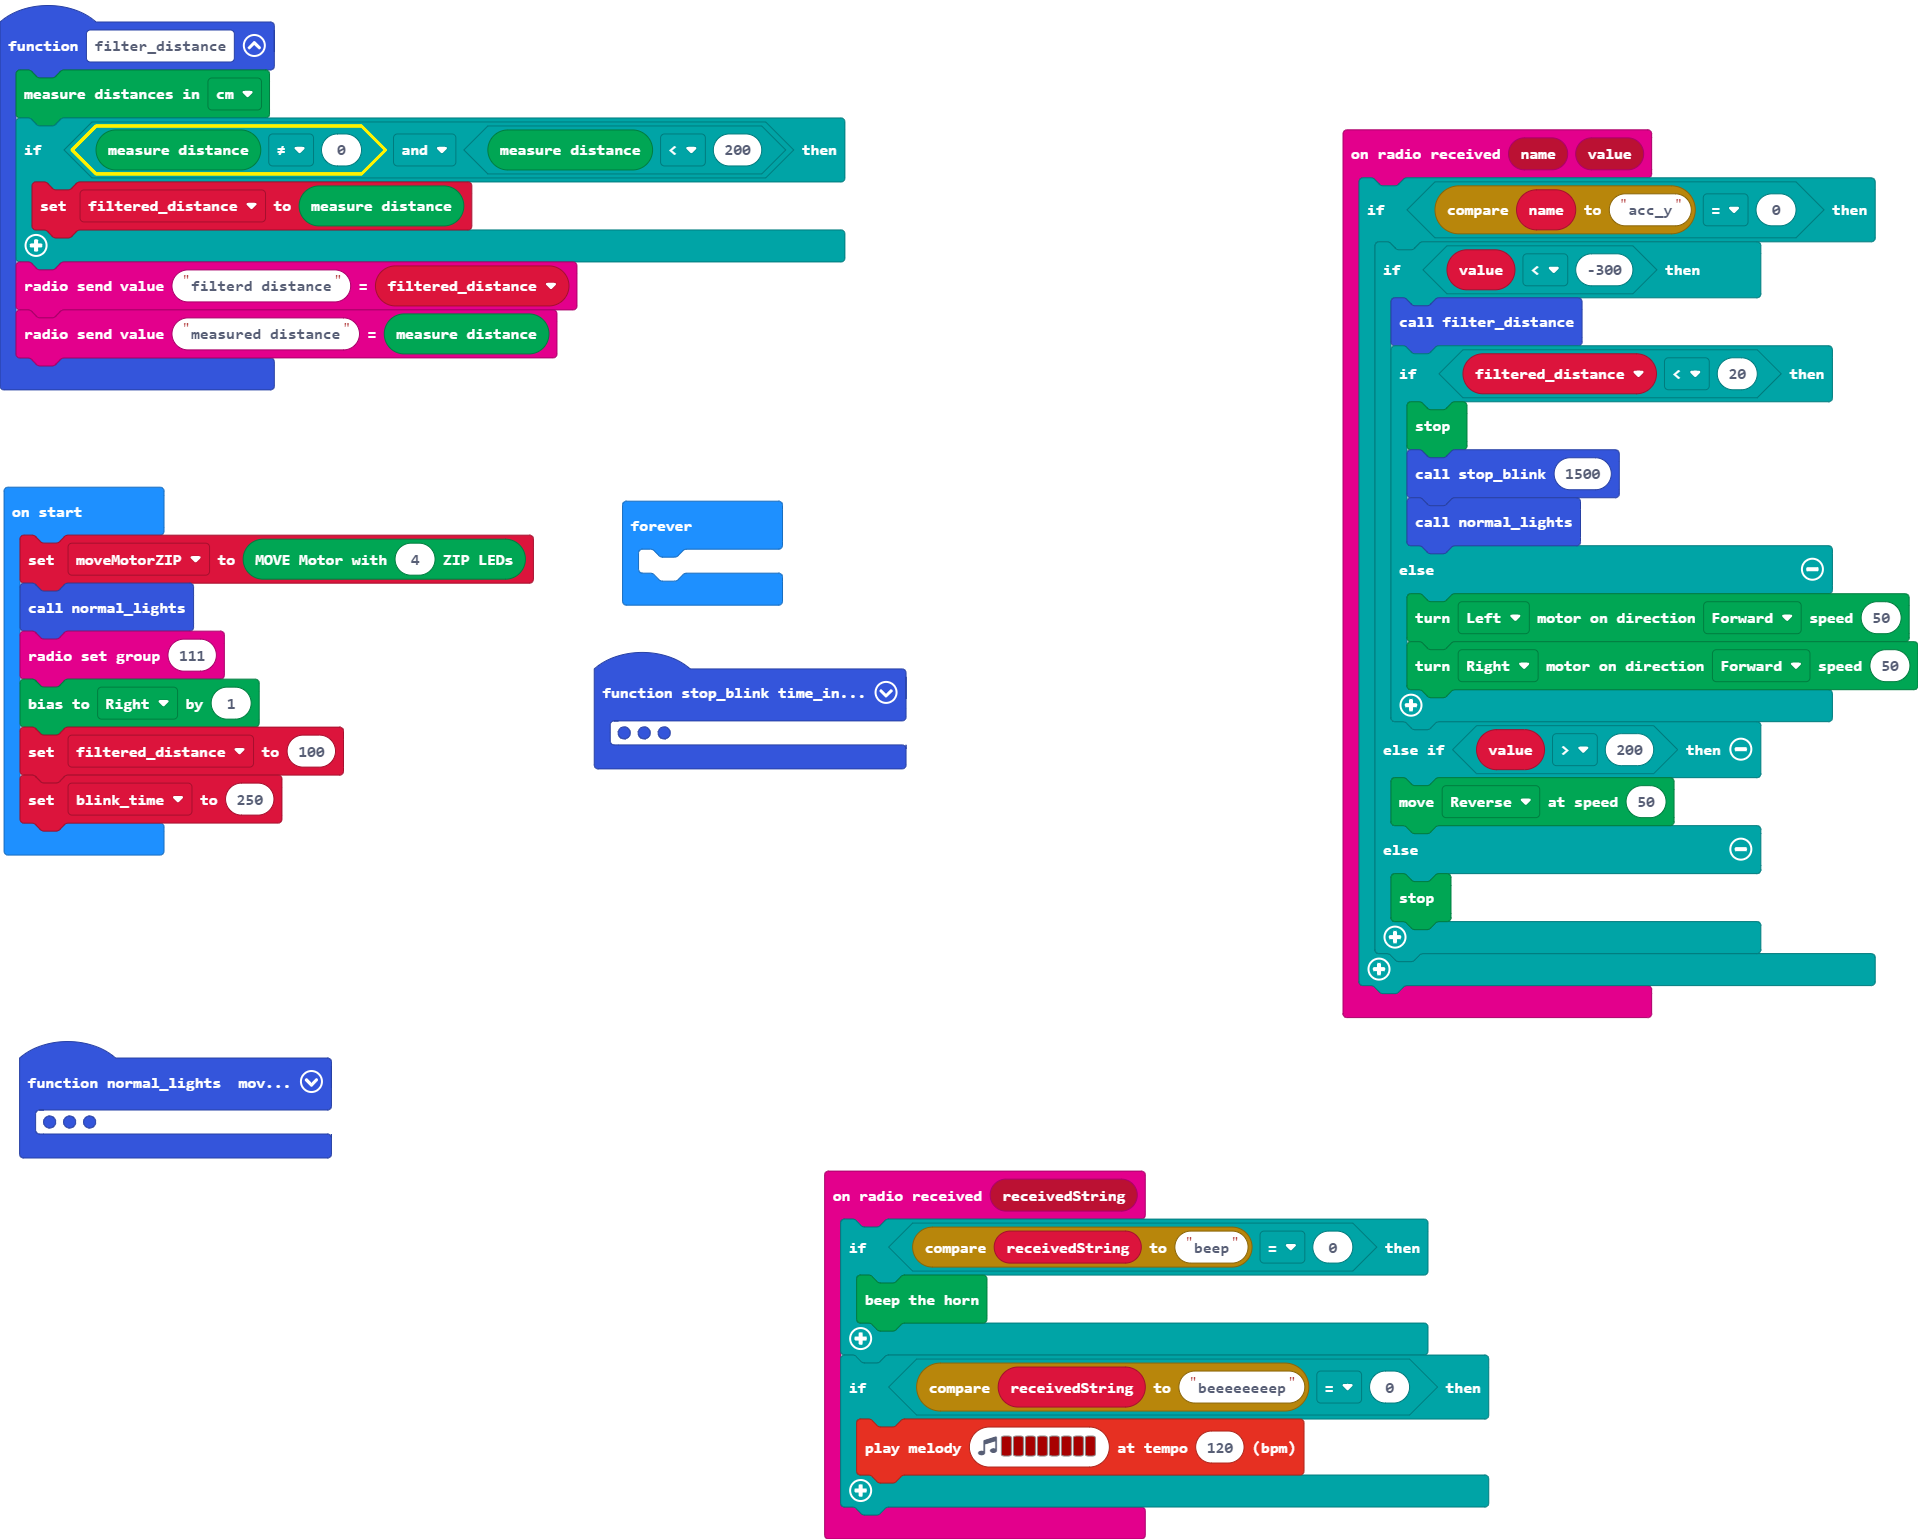
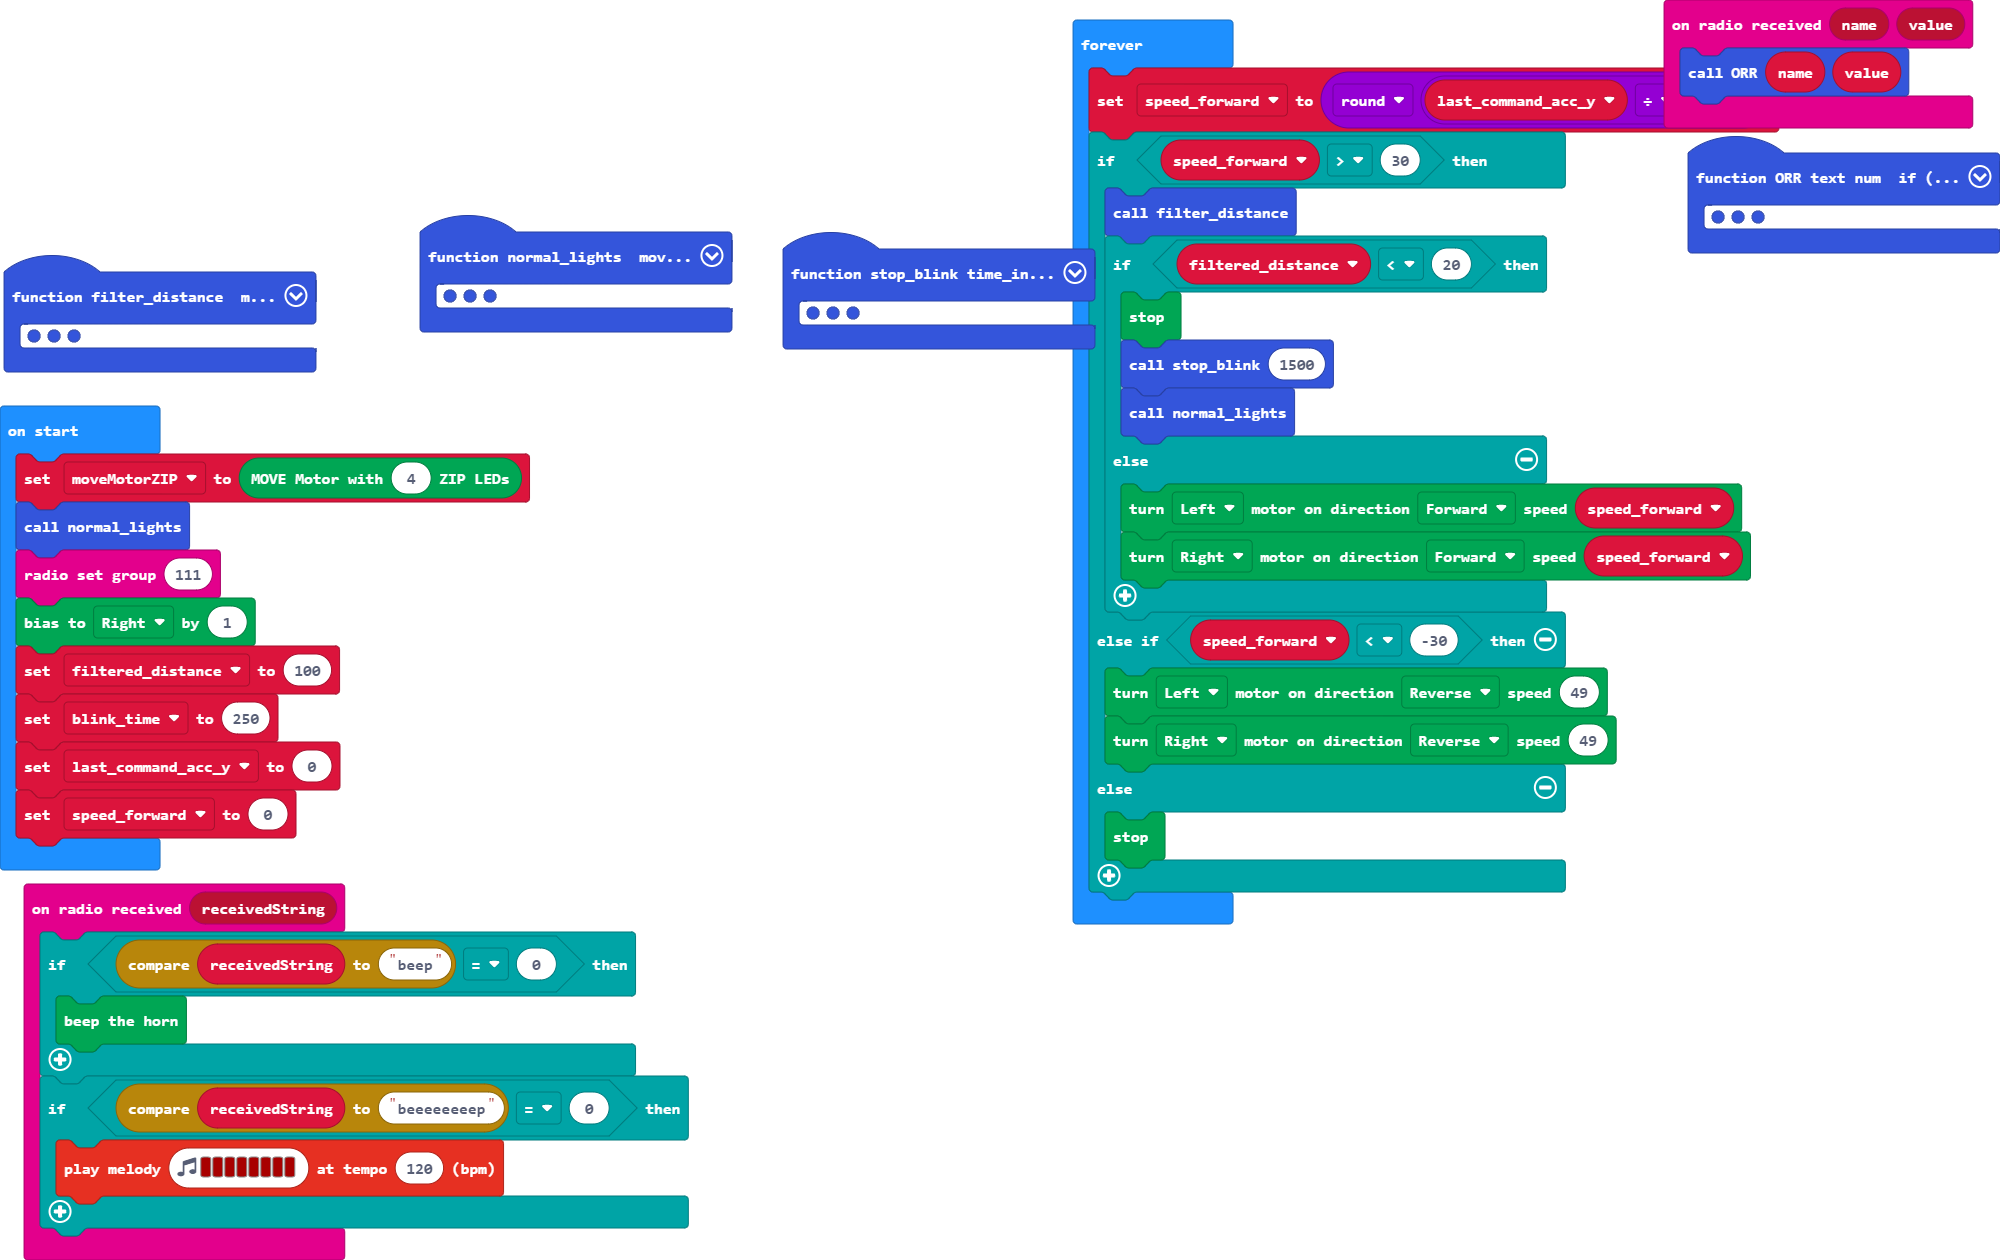
👈👉

diff --git a/main.ts b/main.ts
@@ -20,6 +20,14 @@ function stop_blink (time_in_ms: number) {
         moveMotorZIP.show()
     }
 }
+function ORR (text: string, num: number) {
+    if (text.compare("acc_y") == 0) {
+        last_command_acc_y = num
+    }
+    if (text.compare("acc_x") == 0) {
+        last_command_acc_x = num
+    }
+}
 radio.onReceivedString(function (receivedString) {
     if (receivedString.compare("beep") == 0) {
         Kitronik_Move_Motor.beepHorn()
@@ -29,23 +37,7 @@ radio.onReceivedString(function (receivedString) {
     }
 })
 radio.onReceivedValue(function (name, value) {
-    if (name.compare("acc_y") == 0) {
-        if (value < -300) {
-            filter_distance()
-            if (filtered_distance < 20) {
-                Kitronik_Move_Motor.stop()
-                stop_blink(1500)
-                normal_lights()
-            } else {
-                Kitronik_Move_Motor.motorOn(Kitronik_Move_Motor.Motors.MotorLeft, Kitronik_Move_Motor.MotorDirection.Forward, 50)
-                Kitronik_Move_Motor.motorOn(Kitronik_Move_Motor.Motors.MotorRight, Kitronik_Move_Motor.MotorDirection.Forward, 50)
-            }
-        } else if (value > 200) {
-            Kitronik_Move_Motor.move(Kitronik_Move_Motor.DriveDirections.Reverse, 50)
-        } else {
-            Kitronik_Move_Motor.stop()
-        }
-    }
+    ORR(name, value)
 })
 function filter_distance () {
     Kitronik_Move_Motor.setUltrasonicUnits(Kitronik_Move_Motor.Units.Centimeters)
@@ -55,6 +47,8 @@ function filter_distance () {
     radio.sendValue("filterd distance", filtered_distance)
     radio.sendValue("measured distance", Kitronik_Move_Motor.measure())
 }
+let last_command_acc_x = 0
+let last_command_acc_y = 0
 let blink_time = 0
 let filtered_distance = 0
 let moveMotorZIP: Kitronik_Move_Motor.MoveMotorZIP = null
@@ -64,6 +58,24 @@ radio.setGroup(111)
 Kitronik_Move_Motor.motorBalance(Kitronik_Move_Motor.SpinDirections.Right, 1)
 filtered_distance = 100
 blink_time = 250
+last_command_acc_y = 0
+let speed_forward = 0
 basic.forever(function () {
-	
+    speed_forward = Math.round(last_command_acc_y / -10.23)
+    if (speed_forward > 30) {
+        filter_distance()
+        if (filtered_distance < 20) {
+            Kitronik_Move_Motor.stop()
+            stop_blink(1500)
+            normal_lights()
+        } else {
+            Kitronik_Move_Motor.motorOn(Kitronik_Move_Motor.Motors.MotorLeft, Kitronik_Move_Motor.MotorDirection.Forward, speed_forward)
+            Kitronik_Move_Motor.motorOn(Kitronik_Move_Motor.Motors.MotorRight, Kitronik_Move_Motor.MotorDirection.Forward, speed_forward)
+        }
+    } else if (speed_forward < -30) {
+        Kitronik_Move_Motor.motorOn(Kitronik_Move_Motor.Motors.MotorLeft, Kitronik_Move_Motor.MotorDirection.Reverse, 49)
+        Kitronik_Move_Motor.motorOn(Kitronik_Move_Motor.Motors.MotorRight, Kitronik_Move_Motor.MotorDirection.Reverse, 49)
+    } else {
+        Kitronik_Move_Motor.stop()
+    }
 })

diff --git a/main.py b/main.py
@@ -1,69 +1,81 @@
-def normal_lights():
-    global moveMotorZIP
+function normal_lights () {
     moveMotorZIP.clear()
-    moveMotorZIP = Kitronik_Move_Motor.create_move_motor_zipled(4)
-    moveMotorZIP.set_zip_led_color(0,
-        Kitronik_Move_Motor.colors(Kitronik_Move_Motor.ZipLedColors.WHITE))
-    moveMotorZIP.set_zip_led_color(1,
-        Kitronik_Move_Motor.colors(Kitronik_Move_Motor.ZipLedColors.WHITE))
-    moveMotorZIP.set_zip_led_color(2,
-        Kitronik_Move_Motor.colors(Kitronik_Move_Motor.ZipLedColors.ORANGE))
-    moveMotorZIP.set_zip_led_color(3,
-        Kitronik_Move_Motor.colors(Kitronik_Move_Motor.ZipLedColors.ORANGE))
+    moveMotorZIP = Kitronik_Move_Motor.createMoveMotorZIPLED(4)
+    moveMotorZIP.setZipLedColor(0, Kitronik_Move_Motor.colors(Kitronik_Move_Motor.ZipLedColors.White))
+    moveMotorZIP.setZipLedColor(1, Kitronik_Move_Motor.colors(Kitronik_Move_Motor.ZipLedColors.White))
+    moveMotorZIP.setZipLedColor(2, Kitronik_Move_Motor.colors(Kitronik_Move_Motor.ZipLedColors.Orange))
+    moveMotorZIP.setZipLedColor(3, Kitronik_Move_Motor.colors(Kitronik_Move_Motor.ZipLedColors.Orange))
     moveMotorZIP.show()
-def stop_blink(time_in_ms: number):
+}
+function stop_blink (time_in_ms: number) {
     moveMotorZIP.clear()
-    moveMotorZIP.set_zip_led_color(0,
-        Kitronik_Move_Motor.colors(Kitronik_Move_Motor.ZipLedColors.WHITE))
-    moveMotorZIP.set_zip_led_color(1,
-        Kitronik_Move_Motor.colors(Kitronik_Move_Motor.ZipLedColors.WHITE))
-    moveMotorZIP.set_zip_led_color(2,
-        Kitronik_Move_Motor.colors(Kitronik_Move_Motor.ZipLedColors.RED))
-    moveMotorZIP.set_zip_led_color(3,
-        Kitronik_Move_Motor.colors(Kitronik_Move_Motor.ZipLedColors.RED))
-    for index in range(time_in_ms / blink_time):
+    moveMotorZIP.setZipLedColor(0, Kitronik_Move_Motor.colors(Kitronik_Move_Motor.ZipLedColors.White))
+    moveMotorZIP.setZipLedColor(1, Kitronik_Move_Motor.colors(Kitronik_Move_Motor.ZipLedColors.White))
+    moveMotorZIP.setZipLedColor(2, Kitronik_Move_Motor.colors(Kitronik_Move_Motor.ZipLedColors.Red))
+    moveMotorZIP.setZipLedColor(3, Kitronik_Move_Motor.colors(Kitronik_Move_Motor.ZipLedColors.Red))
+    for (let index = 0; index < time_in_ms / blink_time; index++) {
         moveMotorZIP.rotate(2)
-        moveMotorZIP.show()
+        music.playTone(659, music.beat(BeatFraction.Whole))
         basic.pause(blink_time)
-
-def on_received_value(name, value):
-    if name.compare("acc_y") == 0:
-        if value < -300:
-            filter_distance()
-            if filtered_distance < 20:
-                Kitronik_Move_Motor.stop()
-                music.play_melody("C5 - C5 - C5 - C5 - ", 150)
-                stop_blink(1500)
-                normal_lights()
-            else:
-                Kitronik_Move_Motor.motor_on(Kitronik_Move_Motor.Motors.MOTOR_LEFT,
-                    Kitronik_Move_Motor.MotorDirection.FORWARD,
-                    50)
-                Kitronik_Move_Motor.motor_on(Kitronik_Move_Motor.Motors.MOTOR_RIGHT,
-                    Kitronik_Move_Motor.MotorDirection.FORWARD,
-                    50)
-        elif value > 200:
-            Kitronik_Move_Motor.move(Kitronik_Move_Motor.DriveDirections.REVERSE, 50)
-        else:
-            Kitronik_Move_Motor.stop()
-radio.on_received_value(on_received_value)
-
-def filter_distance():
-    global filtered_distance
-    Kitronik_Move_Motor.set_ultrasonic_units(Kitronik_Move_Motor.Units.CENTIMETERS)
-    if Kitronik_Move_Motor.measure() != 0 and Kitronik_Move_Motor.measure() != 1019:
+        moveMotorZIP.show()
+    }
+}
+function ORR (text: string, num: number) {
+    if (text.compare("acc_y") == 0) {
+        last_command_acc_y = num
+    }
+    if (text.compare("acc_x") == 0) {
+        last_command_acc_x = num
+    }
+}
+radio.onReceivedString(function (receivedString) {
+    if (receivedString.compare("beep") == 0) {
+        Kitronik_Move_Motor.beepHorn()
+    }
+    if (receivedString.compare("beeeeeeeep") == 0) {
+        music.playMelody("C5 C5 C5 C5 C5 C5 C5 C5 ", 120)
+    }
+})
+radio.onReceivedValue(function (name, value) {
+    ORR(name, value)
+})
+function filter_distance () {
+    Kitronik_Move_Motor.setUltrasonicUnits(Kitronik_Move_Motor.Units.Centimeters)
+    if (Kitronik_Move_Motor.measure() != 0 && Kitronik_Move_Motor.measure() < 200) {
         filtered_distance = Kitronik_Move_Motor.measure()
-    radio.send_value("distance", filtered_distance)
-blink_time = 0
-filtered_distance = 0
-moveMotorZIP: Kitronik_Move_Motor.MoveMotorZIP = None
-moveMotorZIP = Kitronik_Move_Motor.create_move_motor_zipled(4)
+    }
+    radio.sendValue("filterd distance", filtered_distance)
+    radio.sendValue("measured distance", Kitronik_Move_Motor.measure())
+}
+let last_command_acc_x = 0
+let last_command_acc_y = 0
+let blink_time = 0
+let filtered_distance = 0
+let moveMotorZIP: Kitronik_Move_Motor.MoveMotorZIP = null
+moveMotorZIP = Kitronik_Move_Motor.createMoveMotorZIPLED(4)
 normal_lights()
-radio.set_group(111)
-Kitronik_Move_Motor.motor_balance(Kitronik_Move_Motor.SpinDirections.RIGHT, 1)
+radio.setGroup(111)
+Kitronik_Move_Motor.motorBalance(Kitronik_Move_Motor.SpinDirections.Right, 1)
 filtered_distance = 100
 blink_time = 250
-
-def on_forever():
-    pass
-basic.forever(on_forever)
+last_command_acc_y = 0
+let speed_forward = 0
+basic.forever(function () {
+    speed_forward = Math.round(last_command_acc_y / -10.23)
+    if (speed_forward > 30) {
+        filter_distance()
+        if (filtered_distance < 20) {
+            Kitronik_Move_Motor.stop()
+            stop_blink(1500)
+            normal_lights()
+        } else {
+            Kitronik_Move_Motor.motorOn(Kitronik_Move_Motor.Motors.MotorLeft, Kitronik_Move_Motor.MotorDirection.Forward, speed_forward)
+            Kitronik_Move_Motor.motorOn(Kitronik_Move_Motor.Motors.MotorRight, Kitronik_Move_Motor.MotorDirection.Forward, speed_forward)
+        }
+    } else if (speed_forward < -30) {
+        Kitronik_Move_Motor.motorOn(Kitronik_Move_Motor.Motors.MotorLeft, Kitronik_Move_Motor.MotorDirection.Reverse, 49)
+        Kitronik_Move_Motor.motorOn(Kitronik_Move_Motor.Motors.MotorRight, Kitronik_Move_Motor.MotorDirection.Reverse, 49)
+    } else {
+        Kitronik_Move_Motor.stop()
+    }
+})
